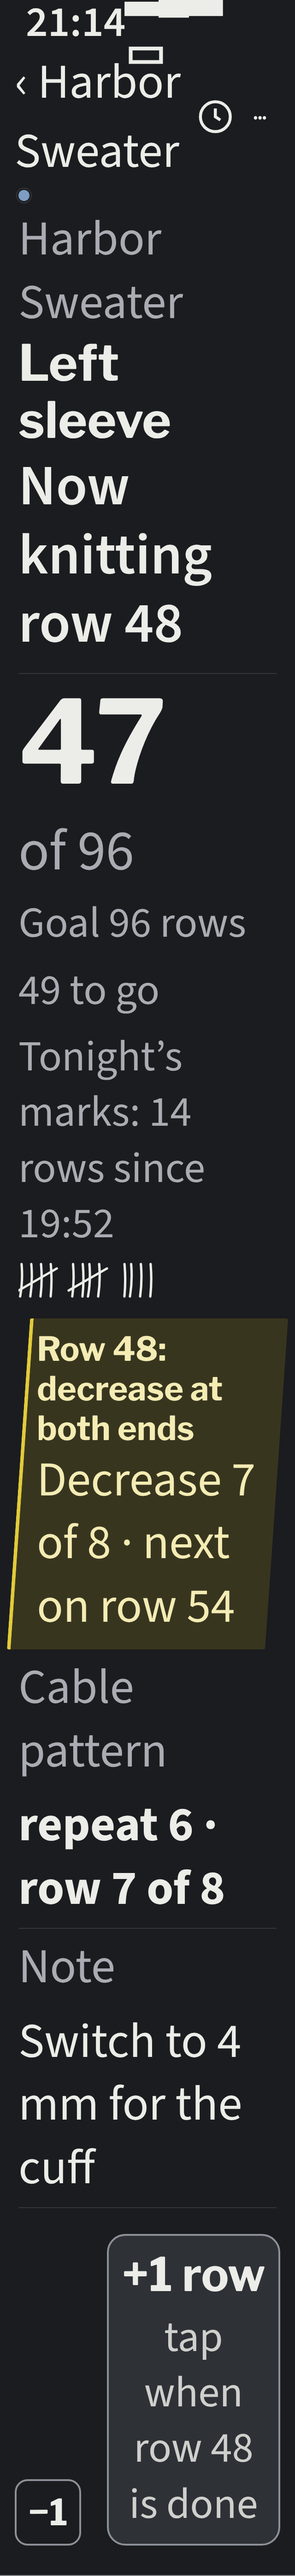
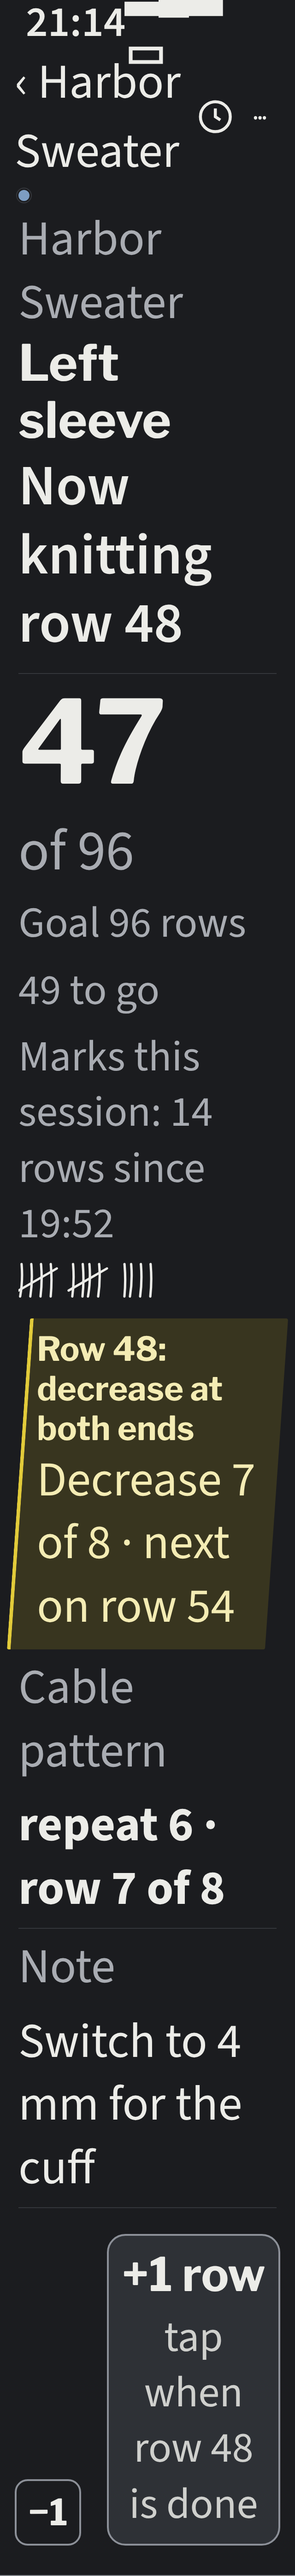
04 fix NZ-08-P2-04 (6): kreski sesji należą do posiedzenia i trwają przez północ; podpis neutralny „Marks this session” (P-126 (6a), N2)
Definicja posiedzenia (przerwa ≥ PRZERWA_NOWEGO_DNIA_MS albo stoper),
kalendarz bez zmian (BR-DNI-002); nowy stan licznik-przez-polnoc,
licznik-w-toku i prototyp z nowym podpisem (24 zrzuty, przed/po);
klucze licznik.znaczniki_sesji_*. Scenorys przejscie/ zostaje jako zapis
testu z E3. Kontrola: pozycja 6 OK.

Claude-Session: https://claude.ai/code/session_011fcNUahHL4CMN3T2xW5vix

Changed region(s): [[0.0625, 0.4048, 0.7188, 0.4359]]

diff --git a/docs/design/ekrany.html b/docs/design/ekrany.html
@@ -137,7 +137,7 @@ h1 { font: 700 calc(30px * var(--dt-tytul)) / 1.15 var(--tytul); margin: 0; }
   <div class="kartka">
     <div class="liczba"><span class="n">47</span><span class="z">of 96</span></div>
     <div class="cel"><span>Goal 96 rows</span><span>49 to go</span></div>
-    <p class="podpis">Tonight’s marks: 14 rows since 19:52</p>
+    <p class="podpis">Marks this session: 14 rows since 19:52</p>
     <div class="kreski" aria-hidden="true"><svg class="tally" data-n="14" viewBox="0 0 350 64"></svg></div>
     <div class="instr" role="status"><b>Row 48: decrease at both ends</b><span>Decrease 7 of 8 · next on row 54</span></div>
     <div class="wiersz"><span class="w">Cable pattern</span><b>repeat 6 · row 7 of 8</b></div>
@@ -344,6 +344,21 @@ h1 { font: 700 calc(30px * var(--dt-tytul)) / 1.15 var(--tytul); margin: 0; }
     <span>Move the marker to row 61 on the next page.</span>
     <button class="przycisk-pelny">Place on page 3</button>
   </div>
+</main>
+
+<!-- 11. Kreski sesji przez północ (NZ-06, P-097 (4a), P-126 (6a)): posiedzenie trwa przez północ; kalendarz liczy rzędy po północy w nowym dniu (BR-DNI-002) -->
+<main data-ekran="licznik-przez-polnoc">
+  <div class="status"><span>00:20</span><span>▂▄▆ ▭</span></div>
+  <div class="nav"><a href="#">‹ Harbor Sweater</a><div class="ikony"><span class="ikona" role="button" aria-label="History">◷</span><span class="ikona" role="button" aria-label="Project options">•••</span></div></div>
+  <div class="tytul"><p class="pod" style="margin:0"><span class="kropka" aria-hidden="true"></span>Harbor Sweater</p><h1>Left sleeve</h1><p class="teraz">Now knitting row 66</p></div>
+  <div class="kartka">
+    <div class="liczba"><span class="n">65</span><span class="z">of 96</span></div>
+    <div class="cel"><span>Goal 96 rows</span><span>31 to go</span></div>
+    <p class="podpis">Marks this session: 18 rows since 22:10</p>
+    <div class="kreski" aria-hidden="true"><svg class="tally" data-n="18" viewBox="0 0 350 64"></svg></div>
+  </div>
+  <div class="spacer"></div>
+  <div class="dol"><button class="minus" aria-label="−1 row">−1</button><button class="plus" aria-label="+1 row, when row 66 is done">+1 row<small>tap when row 66 is done</small></button></div>
 </main>
 
 <section class="uwagi">

diff --git a/docs/design/prototyp.html b/docs/design/prototyp.html
@@ -110,7 +110,7 @@ function ekranLicznika() {
   <div class="kartka">
     <div class="liczba"><span class="n" aria-hidden="true">${S.rzedy}</span><span class="sr" aria-live="polite" style="position:absolute;left:-9999px">${S.rzedy}${S.cel ? ' of ' + S.cel : ''} done, now row ${S.rzedy + 1}</span><span class="z">${S.cel ? 'of ' + S.cel : (S.rzedy === 1 ? 'row' : 'rows')}</span></div>
     ${S.cel ? `<div class="cel"><span>Goal ${S.cel} rows</span><span>${Math.max(0, S.cel - S.rzedy)} to go</span></div>` : ''}
-    ${S.rzedy === 0 && !S.projekt ? '<p class="podpis" style="font-size:17px">Tap the big button each time you finish a row. Each row gets a pencil mark here.</p>' : S.nowyDzienNaLimicie ? '' : `<p class="podpis">Tonight’s marks: ${S.sesja} ${S.sesja === 1 ? 'row' : 'rows'}</p>${kreski(S.sesja)}`}
+    ${S.rzedy === 0 && !S.projekt ? '<p class="podpis" style="font-size:17px">Tap the big button each time you finish a row. Each row gets a pencil mark here.</p>' : S.nowyDzienNaLimicie ? '' : `<p class="podpis">Marks this session: ${S.sesja} ${S.sesja === 1 ? 'row' : 'rows'}</p>${kreski(S.sesja)}`}
     ${wTymRzedzie ? `<div class="instr" role="status"><b>Row ${np}: ${S.przyp.tekst}</b><span>${S.przyp.tekstKrotki} ${rzedyPrzyp(S.przyp).indexOf(np) + 1} of ${S.przyp.razy}${rzedyPrzyp(S.przyp)[rzedyPrzyp(S.przyp).indexOf(np) + 1] ? ' · next on row ' + rzedyPrzyp(S.przyp)[rzedyPrzyp(S.przyp).indexOf(np) + 1] : ''}</span></div>` : (np ? `<p class="nastepne">Next: row ${np}, ${S.przyp.tekst}</p>` : '')}
   </div>
   <div class="spacer"></div>
